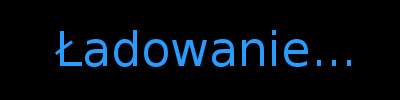
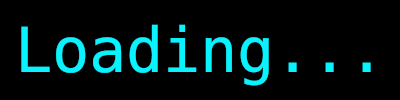
Loading screens now respect language settings

Changed region(s): [[0.03, 0.24, 0.84, 0.87], [0.87, 0.6, 0.93, 0.72], [0.45, 0.24, 0.48, 0.33]]

diff --git a/js/plugins.js b/js/plugins.js
@@ -28,5 +28,6 @@ var $plugins =
 {"name":"GALV_RollCredits","status":true,"description":"(v.1.5) A plugin that calls a new scene to display scrolling information located in an external text file.","parameters":{"Folder":"cdata","Skippable":"true","Block Skipping":"true","Title Menu":"Twórcy","Title Credits Music":""}},
 {"name":"WindowIdentifier","status":true,"description":"Shows the name of the windows while holding CTRL.","parameters":{"Font Size":"28","Font Color":"6"}},
 {"name":"----------------------------------------------","status":false,"description":"","parameters":{}},
-{"name":"KoTC Optimized Dynamic Music System","status":true,"description":"v1 Allows one to have a Dynamic Music System\r\nfor their game, allowing multiple songs per map.","parameters":{"Music List Config":"[\"{\\\"List Name\\\":\\\"Main\\\",\\\"Music Contained\\\":\\\"[\\\\\\\"{\\\\\\\\\\\\\\\"Music Name\\\\\\\\\\\\\\\":\\\\\\\\\\\\\\\"Cosmic-Puzzle\\\\\\\\\\\\\\\",\\\\\\\\\\\\\\\"Music Pitch\\\\\\\\\\\\\\\":\\\\\\\\\\\\\\\"100\\\\\\\\\\\\\\\",\\\\\\\\\\\\\\\"Music Volume\\\\\\\\\\\\\\\":\\\\\\\\\\\\\\\"100\\\\\\\\\\\\\\\",\\\\\\\\\\\\\\\"Fadeout Time\\\\\\\\\\\\\\\":\\\\\\\\\\\\\\\"5\\\\\\\\\\\\\\\",\\\\\\\\\\\\\\\"Music Loop Amount\\\\\\\\\\\\\\\":\\\\\\\\\\\\\\\"1\\\\\\\\\\\\\\\",\\\\\\\\\\\\\\\"Music Pitch Variance\\\\\\\\\\\\\\\":\\\\\\\\\\\\\\\"0\\\\\\\\\\\\\\\"}\\\\\\\",\\\\\\\"{\\\\\\\\\\\\\\\"Music Name\\\\\\\\\\\\\\\":\\\\\\\\\\\\\\\"Dreaming-in-Puzzles\\\\\\\\\\\\\\\",\\\\\\\\\\\\\\\"Music Pitch\\\\\\\\\\\\\\\":\\\\\\\\\\\\\\\"100\\\\\\\\\\\\\\\",\\\\\\\\\\\\\\\"Music Volume\\\\\\\\\\\\\\\":\\\\\\\\\\\\\\\"100\\\\\\\\\\\\\\\",\\\\\\\\\\\\\\\"Fadeout Time\\\\\\\\\\\\\\\":\\\\\\\\\\\\\\\"5\\\\\\\\\\\\\\\",\\\\\\\\\\\\\\\"Music Loop Amount\\\\\\\\\\\\\\\":\\\\\\\\\\\\\\\"0\\\\\\\\\\\\\\\",\\\\\\\\\\\\\\\"Music Pitch Variance\\\\\\\\\\\\\\\":\\\\\\\\\\\\\\\"0\\\\\\\\\\\\\\\"}\\\\\\\",\\\\\\\"{\\\\\\\\\\\\\\\"Music Name\\\\\\\\\\\\\\\":\\\\\\\\\\\\\\\"Numbers\\\\\\\\\\\\\\\",\\\\\\\\\\\\\\\"Music Pitch\\\\\\\\\\\\\\\":\\\\\\\\\\\\\\\"100\\\\\\\\\\\\\\\",\\\\\\\\\\\\\\\"Music Volume\\\\\\\\\\\\\\\":\\\\\\\\\\\\\\\"90\\\\\\\\\\\\\\\",\\\\\\\\\\\\\\\"Fadeout Time\\\\\\\\\\\\\\\":\\\\\\\\\\\\\\\"5\\\\\\\\\\\\\\\",\\\\\\\\\\\\\\\"Music Loop Amount\\\\\\\\\\\\\\\":\\\\\\\\\\\\\\\"0\\\\\\\\\\\\\\\",\\\\\\\\\\\\\\\"Music Pitch Variance\\\\\\\\\\\\\\\":\\\\\\\\\\\\\\\"0\\\\\\\\\\\\\\\"}\\\\\\\",\\\\\\\"{\\\\\\\\\\\\\\\"Music Name\\\\\\\\\\\\\\\":\\\\\\\\\\\\\\\"Puzzle-Game\\\\\\\\\\\\\\\",\\\\\\\\\\\\\\\"Music Pitch\\\\\\\\\\\\\\\":\\\\\\\\\\\\\\\"100\\\\\\\\\\\\\\\",\\\\\\\\\\\\\\\"Music Volume\\\\\\\\\\\\\\\":\\\\\\\\\\\\\\\"100\\\\\\\\\\\\\\\",\\\\\\\\\\\\\\\"Fadeout Time\\\\\\\\\\\\\\\":\\\\\\\\\\\\\\\"5\\\\\\\\\\\\\\\",\\\\\\\\\\\\\\\"Music Loop Amount\\\\\\\\\\\\\\\":\\\\\\\\\\\\\\\"0\\\\\\\\\\\\\\\",\\\\\\\\\\\\\\\"Music Pitch Variance\\\\\\\\\\\\\\\":\\\\\\\\\\\\\\\"0\\\\\\\\\\\\\\\"}\\\\\\\",\\\\\\\"{\\\\\\\\\\\\\\\"Music Name\\\\\\\\\\\\\\\":\\\\\\\\\\\\\\\"Puzzle-Game-2\\\\\\\\\\\\\\\",\\\\\\\\\\\\\\\"Music Pitch\\\\\\\\\\\\\\\":\\\\\\\\\\\\\\\"100\\\\\\\\\\\\\\\",\\\\\\\\\\\\\\\"Music Volume\\\\\\\\\\\\\\\":\\\\\\\\\\\\\\\"100\\\\\\\\\\\\\\\",\\\\\\\\\\\\\\\"Fadeout Time\\\\\\\\\\\\\\\":\\\\\\\\\\\\\\\"5\\\\\\\\\\\\\\\",\\\\\\\\\\\\\\\"Music Loop Amount\\\\\\\\\\\\\\\":\\\\\\\\\\\\\\\"0\\\\\\\\\\\\\\\",\\\\\\\\\\\\\\\"Music Pitch Variance\\\\\\\\\\\\\\\":\\\\\\\\\\\\\\\"0\\\\\\\\\\\\\\\"}\\\\\\\",\\\\\\\"{\\\\\\\\\\\\\\\"Music Name\\\\\\\\\\\\\\\":\\\\\\\\\\\\\\\"Puzzle-Game-3\\\\\\\\\\\\\\\",\\\\\\\\\\\\\\\"Music Pitch\\\\\\\\\\\\\\\":\\\\\\\\\\\\\\\"100\\\\\\\\\\\\\\\",\\\\\\\\\\\\\\\"Music Volume\\\\\\\\\\\\\\\":\\\\\\\\\\\\\\\"100\\\\\\\\\\\\\\\",\\\\\\\\\\\\\\\"Fadeout Time\\\\\\\\\\\\\\\":\\\\\\\\\\\\\\\"5\\\\\\\\\\\\\\\",\\\\\\\\\\\\\\\"Music Loop Amount\\\\\\\\\\\\\\\":\\\\\\\\\\\\\\\"0\\\\\\\\\\\\\\\",\\\\\\\\\\\\\\\"Music Pitch Variance\\\\\\\\\\\\\\\":\\\\\\\\\\\\\\\"0\\\\\\\\\\\\\\\"}\\\\\\\",\\\\\\\"{\\\\\\\\\\\\\\\"Music Name\\\\\\\\\\\\\\\":\\\\\\\\\\\\\\\"Puzzle-Game-5\\\\\\\\\\\\\\\",\\\\\\\\\\\\\\\"Music Pitch\\\\\\\\\\\\\\\":\\\\\\\\\\\\\\\"100\\\\\\\\\\\\\\\",\\\\\\\\\\\\\\\"Music Volume\\\\\\\\\\\\\\\":\\\\\\\\\\\\\\\"100\\\\\\\\\\\\\\\",\\\\\\\\\\\\\\\"Fadeout Time\\\\\\\\\\\\\\\":\\\\\\\\\\\\\\\"5\\\\\\\\\\\\\\\",\\\\\\\\\\\\\\\"Music Loop Amount\\\\\\\\\\\\\\\":\\\\\\\\\\\\\\\"1\\\\\\\\\\\\\\\",\\\\\\\\\\\\\\\"Music Pitch Variance\\\\\\\\\\\\\\\":\\\\\\\\\\\\\\\"0\\\\\\\\\\\\\\\"}\\\\\\\",\\\\\\\"{\\\\\\\\\\\\\\\"Music Name\\\\\\\\\\\\\\\":\\\\\\\\\\\\\\\"Puzzles-on-Alien-Worlds\\\\\\\\\\\\\\\",\\\\\\\\\\\\\\\"Music Pitch\\\\\\\\\\\\\\\":\\\\\\\\\\\\\\\"100\\\\\\\\\\\\\\\",\\\\\\\\\\\\\\\"Music Volume\\\\\\\\\\\\\\\":\\\\\\\\\\\\\\\"100\\\\\\\\\\\\\\\",\\\\\\\\\\\\\\\"Fadeout Time\\\\\\\\\\\\\\\":\\\\\\\\\\\\\\\"5\\\\\\\\\\\\\\\",\\\\\\\\\\\\\\\"Music Loop Amount\\\\\\\\\\\\\\\":\\\\\\\\\\\\\\\"1\\\\\\\\\\\\\\\",\\\\\\\\\\\\\\\"Music Pitch Variance\\\\\\\\\\\\\\\":\\\\\\\\\\\\\\\"0\\\\\\\\\\\\\\\"}\\\\\\\"]\\\"}\",\"{\\\"List Name\\\":\\\"Test\\\",\\\"Music Contained\\\":\\\"[\\\\\\\"{\\\\\\\\\\\\\\\"Music Name\\\\\\\\\\\\\\\":\\\\\\\\\\\\\\\"Musical1\\\\\\\\\\\\\\\",\\\\\\\\\\\\\\\"Music Pitch\\\\\\\\\\\\\\\":\\\\\\\\\\\\\\\"100\\\\\\\\\\\\\\\",\\\\\\\\\\\\\\\"Music Volume\\\\\\\\\\\\\\\":\\\\\\\\\\\\\\\"100\\\\\\\\\\\\\\\",\\\\\\\\\\\\\\\"Fadeout Time\\\\\\\\\\\\\\\":\\\\\\\\\\\\\\\"5\\\\\\\\\\\\\\\",\\\\\\\\\\\\\\\"Music Loop Amount\\\\\\\\\\\\\\\":\\\\\\\\\\\\\\\"0\\\\\\\\\\\\\\\",\\\\\\\\\\\\\\\"Music Pitch Variance\\\\\\\\\\\\\\\":\\\\\\\\\\\\\\\"0\\\\\\\\\\\\\\\"}\\\\\\\",\\\\\\\"{\\\\\\\\\\\\\\\"Music Name\\\\\\\\\\\\\\\":\\\\\\\\\\\\\\\"Musical2\\\\\\\\\\\\\\\",\\\\\\\\\\\\\\\"Music Pitch\\\\\\\\\\\\\\\":\\\\\\\\\\\\\\\"100\\\\\\\\\\\\\\\",\\\\\\\\\\\\\\\"Music Volume\\\\\\\\\\\\\\\":\\\\\\\\\\\\\\\"100\\\\\\\\\\\\\\\",\\\\\\\\\\\\\\\"Fadeout Time\\\\\\\\\\\\\\\":\\\\\\\\\\\\\\\"5\\\\\\\\\\\\\\\",\\\\\\\\\\\\\\\"Music Loop Amount\\\\\\\\\\\\\\\":\\\\\\\\\\\\\\\"0\\\\\\\\\\\\\\\",\\\\\\\\\\\\\\\"Music Pitch Variance\\\\\\\\\\\\\\\":\\\\\\\\\\\\\\\"0\\\\\\\\\\\\\\\"}\\\\\\\",\\\\\\\"{\\\\\\\\\\\\\\\"Music Name\\\\\\\\\\\\\\\":\\\\\\\\\\\\\\\"Musical3\\\\\\\\\\\\\\\",\\\\\\\\\\\\\\\"Music Pitch\\\\\\\\\\\\\\\":\\\\\\\\\\\\\\\"100\\\\\\\\\\\\\\\",\\\\\\\\\\\\\\\"Music Volume\\\\\\\\\\\\\\\":\\\\\\\\\\\\\\\"100\\\\\\\\\\\\\\\",\\\\\\\\\\\\\\\"Fadeout Time\\\\\\\\\\\\\\\":\\\\\\\\\\\\\\\"5\\\\\\\\\\\\\\\",\\\\\\\\\\\\\\\"Music Loop Amount\\\\\\\\\\\\\\\":\\\\\\\\\\\\\\\"0\\\\\\\\\\\\\\\",\\\\\\\\\\\\\\\"Music Pitch Variance\\\\\\\\\\\\\\\":\\\\\\\\\\\\\\\"0\\\\\\\\\\\\\\\"}\\\\\\\"]\\\"}\"]"}}
+{"name":"KoTC Optimized Dynamic Music System","status":true,"description":"v1 Allows one to have a Dynamic Music System\r\nfor their game, allowing multiple songs per map.","parameters":{"Music List Config":"[\"{\\\"List Name\\\":\\\"Main\\\",\\\"Music Contained\\\":\\\"[\\\\\\\"{\\\\\\\\\\\\\\\"Music Name\\\\\\\\\\\\\\\":\\\\\\\\\\\\\\\"Cosmic-Puzzle\\\\\\\\\\\\\\\",\\\\\\\\\\\\\\\"Music Pitch\\\\\\\\\\\\\\\":\\\\\\\\\\\\\\\"100\\\\\\\\\\\\\\\",\\\\\\\\\\\\\\\"Music Volume\\\\\\\\\\\\\\\":\\\\\\\\\\\\\\\"100\\\\\\\\\\\\\\\",\\\\\\\\\\\\\\\"Fadeout Time\\\\\\\\\\\\\\\":\\\\\\\\\\\\\\\"5\\\\\\\\\\\\\\\",\\\\\\\\\\\\\\\"Music Loop Amount\\\\\\\\\\\\\\\":\\\\\\\\\\\\\\\"1\\\\\\\\\\\\\\\",\\\\\\\\\\\\\\\"Music Pitch Variance\\\\\\\\\\\\\\\":\\\\\\\\\\\\\\\"0\\\\\\\\\\\\\\\"}\\\\\\\",\\\\\\\"{\\\\\\\\\\\\\\\"Music Name\\\\\\\\\\\\\\\":\\\\\\\\\\\\\\\"Dreaming-in-Puzzles\\\\\\\\\\\\\\\",\\\\\\\\\\\\\\\"Music Pitch\\\\\\\\\\\\\\\":\\\\\\\\\\\\\\\"100\\\\\\\\\\\\\\\",\\\\\\\\\\\\\\\"Music Volume\\\\\\\\\\\\\\\":\\\\\\\\\\\\\\\"100\\\\\\\\\\\\\\\",\\\\\\\\\\\\\\\"Fadeout Time\\\\\\\\\\\\\\\":\\\\\\\\\\\\\\\"5\\\\\\\\\\\\\\\",\\\\\\\\\\\\\\\"Music Loop Amount\\\\\\\\\\\\\\\":\\\\\\\\\\\\\\\"0\\\\\\\\\\\\\\\",\\\\\\\\\\\\\\\"Music Pitch Variance\\\\\\\\\\\\\\\":\\\\\\\\\\\\\\\"0\\\\\\\\\\\\\\\"}\\\\\\\",\\\\\\\"{\\\\\\\\\\\\\\\"Music Name\\\\\\\\\\\\\\\":\\\\\\\\\\\\\\\"Numbers\\\\\\\\\\\\\\\",\\\\\\\\\\\\\\\"Music Pitch\\\\\\\\\\\\\\\":\\\\\\\\\\\\\\\"100\\\\\\\\\\\\\\\",\\\\\\\\\\\\\\\"Music Volume\\\\\\\\\\\\\\\":\\\\\\\\\\\\\\\"90\\\\\\\\\\\\\\\",\\\\\\\\\\\\\\\"Fadeout Time\\\\\\\\\\\\\\\":\\\\\\\\\\\\\\\"5\\\\\\\\\\\\\\\",\\\\\\\\\\\\\\\"Music Loop Amount\\\\\\\\\\\\\\\":\\\\\\\\\\\\\\\"0\\\\\\\\\\\\\\\",\\\\\\\\\\\\\\\"Music Pitch Variance\\\\\\\\\\\\\\\":\\\\\\\\\\\\\\\"0\\\\\\\\\\\\\\\"}\\\\\\\",\\\\\\\"{\\\\\\\\\\\\\\\"Music Name\\\\\\\\\\\\\\\":\\\\\\\\\\\\\\\"Puzzle-Game\\\\\\\\\\\\\\\",\\\\\\\\\\\\\\\"Music Pitch\\\\\\\\\\\\\\\":\\\\\\\\\\\\\\\"100\\\\\\\\\\\\\\\",\\\\\\\\\\\\\\\"Music Volume\\\\\\\\\\\\\\\":\\\\\\\\\\\\\\\"100\\\\\\\\\\\\\\\",\\\\\\\\\\\\\\\"Fadeout Time\\\\\\\\\\\\\\\":\\\\\\\\\\\\\\\"5\\\\\\\\\\\\\\\",\\\\\\\\\\\\\\\"Music Loop Amount\\\\\\\\\\\\\\\":\\\\\\\\\\\\\\\"0\\\\\\\\\\\\\\\",\\\\\\\\\\\\\\\"Music Pitch Variance\\\\\\\\\\\\\\\":\\\\\\\\\\\\\\\"0\\\\\\\\\\\\\\\"}\\\\\\\",\\\\\\\"{\\\\\\\\\\\\\\\"Music Name\\\\\\\\\\\\\\\":\\\\\\\\\\\\\\\"Puzzle-Game-2\\\\\\\\\\\\\\\",\\\\\\\\\\\\\\\"Music Pitch\\\\\\\\\\\\\\\":\\\\\\\\\\\\\\\"100\\\\\\\\\\\\\\\",\\\\\\\\\\\\\\\"Music Volume\\\\\\\\\\\\\\\":\\\\\\\\\\\\\\\"100\\\\\\\\\\\\\\\",\\\\\\\\\\\\\\\"Fadeout Time\\\\\\\\\\\\\\\":\\\\\\\\\\\\\\\"5\\\\\\\\\\\\\\\",\\\\\\\\\\\\\\\"Music Loop Amount\\\\\\\\\\\\\\\":\\\\\\\\\\\\\\\"0\\\\\\\\\\\\\\\",\\\\\\\\\\\\\\\"Music Pitch Variance\\\\\\\\\\\\\\\":\\\\\\\\\\\\\\\"0\\\\\\\\\\\\\\\"}\\\\\\\",\\\\\\\"{\\\\\\\\\\\\\\\"Music Name\\\\\\\\\\\\\\\":\\\\\\\\\\\\\\\"Puzzle-Game-3\\\\\\\\\\\\\\\",\\\\\\\\\\\\\\\"Music Pitch\\\\\\\\\\\\\\\":\\\\\\\\\\\\\\\"100\\\\\\\\\\\\\\\",\\\\\\\\\\\\\\\"Music Volume\\\\\\\\\\\\\\\":\\\\\\\\\\\\\\\"100\\\\\\\\\\\\\\\",\\\\\\\\\\\\\\\"Fadeout Time\\\\\\\\\\\\\\\":\\\\\\\\\\\\\\\"5\\\\\\\\\\\\\\\",\\\\\\\\\\\\\\\"Music Loop Amount\\\\\\\\\\\\\\\":\\\\\\\\\\\\\\\"0\\\\\\\\\\\\\\\",\\\\\\\\\\\\\\\"Music Pitch Variance\\\\\\\\\\\\\\\":\\\\\\\\\\\\\\\"0\\\\\\\\\\\\\\\"}\\\\\\\",\\\\\\\"{\\\\\\\\\\\\\\\"Music Name\\\\\\\\\\\\\\\":\\\\\\\\\\\\\\\"Puzzle-Game-5\\\\\\\\\\\\\\\",\\\\\\\\\\\\\\\"Music Pitch\\\\\\\\\\\\\\\":\\\\\\\\\\\\\\\"100\\\\\\\\\\\\\\\",\\\\\\\\\\\\\\\"Music Volume\\\\\\\\\\\\\\\":\\\\\\\\\\\\\\\"100\\\\\\\\\\\\\\\",\\\\\\\\\\\\\\\"Fadeout Time\\\\\\\\\\\\\\\":\\\\\\\\\\\\\\\"5\\\\\\\\\\\\\\\",\\\\\\\\\\\\\\\"Music Loop Amount\\\\\\\\\\\\\\\":\\\\\\\\\\\\\\\"1\\\\\\\\\\\\\\\",\\\\\\\\\\\\\\\"Music Pitch Variance\\\\\\\\\\\\\\\":\\\\\\\\\\\\\\\"0\\\\\\\\\\\\\\\"}\\\\\\\",\\\\\\\"{\\\\\\\\\\\\\\\"Music Name\\\\\\\\\\\\\\\":\\\\\\\\\\\\\\\"Puzzles-on-Alien-Worlds\\\\\\\\\\\\\\\",\\\\\\\\\\\\\\\"Music Pitch\\\\\\\\\\\\\\\":\\\\\\\\\\\\\\\"100\\\\\\\\\\\\\\\",\\\\\\\\\\\\\\\"Music Volume\\\\\\\\\\\\\\\":\\\\\\\\\\\\\\\"100\\\\\\\\\\\\\\\",\\\\\\\\\\\\\\\"Fadeout Time\\\\\\\\\\\\\\\":\\\\\\\\\\\\\\\"5\\\\\\\\\\\\\\\",\\\\\\\\\\\\\\\"Music Loop Amount\\\\\\\\\\\\\\\":\\\\\\\\\\\\\\\"1\\\\\\\\\\\\\\\",\\\\\\\\\\\\\\\"Music Pitch Variance\\\\\\\\\\\\\\\":\\\\\\\\\\\\\\\"0\\\\\\\\\\\\\\\"}\\\\\\\"]\\\"}\",\"{\\\"List Name\\\":\\\"Test\\\",\\\"Music Contained\\\":\\\"[\\\\\\\"{\\\\\\\\\\\\\\\"Music Name\\\\\\\\\\\\\\\":\\\\\\\\\\\\\\\"Musical1\\\\\\\\\\\\\\\",\\\\\\\\\\\\\\\"Music Pitch\\\\\\\\\\\\\\\":\\\\\\\\\\\\\\\"100\\\\\\\\\\\\\\\",\\\\\\\\\\\\\\\"Music Volume\\\\\\\\\\\\\\\":\\\\\\\\\\\\\\\"100\\\\\\\\\\\\\\\",\\\\\\\\\\\\\\\"Fadeout Time\\\\\\\\\\\\\\\":\\\\\\\\\\\\\\\"5\\\\\\\\\\\\\\\",\\\\\\\\\\\\\\\"Music Loop Amount\\\\\\\\\\\\\\\":\\\\\\\\\\\\\\\"0\\\\\\\\\\\\\\\",\\\\\\\\\\\\\\\"Music Pitch Variance\\\\\\\\\\\\\\\":\\\\\\\\\\\\\\\"0\\\\\\\\\\\\\\\"}\\\\\\\",\\\\\\\"{\\\\\\\\\\\\\\\"Music Name\\\\\\\\\\\\\\\":\\\\\\\\\\\\\\\"Musical2\\\\\\\\\\\\\\\",\\\\\\\\\\\\\\\"Music Pitch\\\\\\\\\\\\\\\":\\\\\\\\\\\\\\\"100\\\\\\\\\\\\\\\",\\\\\\\\\\\\\\\"Music Volume\\\\\\\\\\\\\\\":\\\\\\\\\\\\\\\"100\\\\\\\\\\\\\\\",\\\\\\\\\\\\\\\"Fadeout Time\\\\\\\\\\\\\\\":\\\\\\\\\\\\\\\"5\\\\\\\\\\\\\\\",\\\\\\\\\\\\\\\"Music Loop Amount\\\\\\\\\\\\\\\":\\\\\\\\\\\\\\\"0\\\\\\\\\\\\\\\",\\\\\\\\\\\\\\\"Music Pitch Variance\\\\\\\\\\\\\\\":\\\\\\\\\\\\\\\"0\\\\\\\\\\\\\\\"}\\\\\\\",\\\\\\\"{\\\\\\\\\\\\\\\"Music Name\\\\\\\\\\\\\\\":\\\\\\\\\\\\\\\"Musical3\\\\\\\\\\\\\\\",\\\\\\\\\\\\\\\"Music Pitch\\\\\\\\\\\\\\\":\\\\\\\\\\\\\\\"100\\\\\\\\\\\\\\\",\\\\\\\\\\\\\\\"Music Volume\\\\\\\\\\\\\\\":\\\\\\\\\\\\\\\"100\\\\\\\\\\\\\\\",\\\\\\\\\\\\\\\"Fadeout Time\\\\\\\\\\\\\\\":\\\\\\\\\\\\\\\"5\\\\\\\\\\\\\\\",\\\\\\\\\\\\\\\"Music Loop Amount\\\\\\\\\\\\\\\":\\\\\\\\\\\\\\\"0\\\\\\\\\\\\\\\",\\\\\\\\\\\\\\\"Music Pitch Variance\\\\\\\\\\\\\\\":\\\\\\\\\\\\\\\"0\\\\\\\\\\\\\\\"}\\\\\\\"]\\\"}\"]"}},
+{"name":"MAC_Extended_Loading_Screens","status":false,"description":"This plugin will make loading screens last longer, so that you can take a good look at them.","parameters":{"Time":"5"}}
 ];

diff --git a/js/plugins/TranslationData.js b/js/plugins/TranslationData.js
@@ -25,6 +25,7 @@ langData = {
 wordBank = {
     en: {
         terms: { "basic": ["Level", "Lv", "HP", "HP", "MP", "MP", "TP", "TP", "EXP", "EXP"], "commands": ["Fight", "Escape", "Attack", "Guard", "Item", "Skill", "Equip", "Status", "Formation", "Save", "Game End", "Options", "Weapon", "Armor", "Key Item", "Equip", "Optimize", "Clear", "New Game", "Continue", null, "To Title", "Cancel", null, "Buy", "Sell"], "params": ["Max HP", "Max MP", "Attack", "Defense", "M.Attack", "M.Defense", "Agility", "Luck", "Hit", "Evasion"], "messages": { "actionFailure": "There was no effect on %1!", "actorDamage": "%1 took %2 damage!", "actorDrain": "%1 was drained of %2 %3!", "actorGain": "%1 gained %2 %3!", "actorLoss": "%1 lost %2 %3!", "actorNoDamage": "%1 took no damage!", "actorNoHit": "Miss! %1 took no damage!", "actorRecovery": "%1 recovered %2 %3!", "alwaysDash": "Always Dash", "bgmVolume": "Music volume", "bgsVolume": "Ambience volume", "buffAdd": "%1's %2 went up!", "buffRemove": "%1's %2 returned to normal!", "commandRemember": "Command Remember", "counterAttack": "%1 counterattacked!", "criticalToActor": "A painful blow!!", "criticalToEnemy": "An excellent hit!!", "debuffAdd": "%1's %2 went down!", "defeat": "%1 was defeated.", "emerge": "%1 emerged!", "enemyDamage": "%1 took %2 damage!", "enemyDrain": "%1 was drained of %2 %3!", "enemyGain": "%1 gained %2 %3!", "enemyLoss": "%1 lost %2 %3!", "enemyNoDamage": "%1 took no damage!", "enemyNoHit": "Miss! %1 took no damage!", "enemyRecovery": "%1 recovered %2 %3!", "escapeFailure": "However, it was unable to escape!", "escapeStart": "%1 has started to escape!", "evasion": "%1 evaded the attack!", "expNext": "To Next %1", "expTotal": "Current %1", "file": "File", "levelUp": "%1 is now %2 %3!", "loadMessage": "Load which file?", "magicEvasion": "%1 nullified the magic!", "magicReflection": "%1 reflected the magic!", "meVolume": "Fanfare Volume", "obtainExp": "%1 %2 received!", "obtainGold": "%1\\G found!", "obtainItem": "%1 found!", "obtainSkill": "%1 learned!", "partyName": "%1's Party", "possession": "Possession", "preemptive": "%1 got the upper hand!", "saveMessage": "Save to which file?", "seVolume": "Effects volume", "substitute": "%1 protected %2!", "surprise": "%1 was surprised!", "useItem": "%1 uses %2!", "victory": "%1 was victorious!" } },
+        loadingFile: "Loading",
         yes: "yes",
         no: "no",
         on: "ON",
@@ -53,6 +54,7 @@ wordBank = {
     },
     pl: {
         terms: { "basic": ["Level", "Lv", "HP", "HP", "MP", "MP", "TP", "TP", "EXP", "EXP"], "commands": ["Fight", "Escape", "Attack", "Guard", "Item", "Skill", "Equip", "Status", "Formation", "Zapisz", "Wyjdź", "Opcje", "Weapon", "Armor", "Key Item", "Equip", "Optimize", "Clear", "Nowa gra", "Kontynuacja", null, "Do menu głównego", "Anuluj", null, "Buy", "Sell"], "params": ["Max HP", "Max MP", "Attack", "Defense", "M.Attack", "M.Defense", "Agility", "Luck", "Hit", "Evasion"], "messages": { "actionFailure": "There was no effect on %1!", "actorDamage": "%1 took %2 damage!", "actorDrain": "%1 was drained of %2 %3!", "actorGain": "%1 gained %2 %3!", "actorLoss": "%1 lost %2 %3!", "actorNoDamage": "%1 took no damage!", "actorNoHit": "Miss! %1 took no damage!", "actorRecovery": "%1 recovered %2 %3!", "alwaysDash": "Biegnij domyślnie", "bgmVolume": "Głośność muzyki", "bgsVolume": "Głośność dźwięków tła", "buffAdd": "%1's %2 went up!", "buffRemove": "%1's %2 returned to normal!", "commandRemember": "Don't mind this", "counterAttack": "%1 counterattacked!", "criticalToActor": "A painful blow!!", "criticalToEnemy": "An excellent hit!!", "debuffAdd": "%1's %2 went down!", "defeat": "%1 was defeated.", "emerge": "%1 emerged!", "enemyDamage": "%1 took %2 damage!", "enemyDrain": "%1 was drained of %2 %3!", "enemyGain": "%1 gained %2 %3!", "enemyLoss": "%1 lost %2 %3!", "enemyNoDamage": "%1 took no damage!", "enemyNoHit": "Miss! %1 took no damage!", "enemyRecovery": "%1 recovered %2 %3!", "escapeFailure": "However, it was unable to escape!", "escapeStart": "%1 has started to escape!", "evasion": "%1 evaded the attack!", "expNext": "To Next %1", "expTotal": "Current %1", "file": "Plik", "levelUp": "%1 is now %2 %3!", "loadMessage": "Który plik wczytać?", "magicEvasion": "%1 nullified the magic!", "magicReflection": "%1 reflected the magic!", "meVolume": "Głośność efektów muzycznych", "obtainExp": "%1 %2 received!", "obtainGold": "znaleziono %1\\G!", "obtainItem": "znaleziono %1!", "obtainSkill": "%1 learned!", "partyName": "%1's Party", "possession": "Possession", "preemptive": "%1 got the upper hand!", "saveMessage": "Do którego pliku zapisać?", "seVolume": "Głośność efektów", "substitute": "%1 protected %2!", "surprise": "%1 was surprised!", "useItem": "%1 uses %2!", "victory": "%1 was victorious!" } },
+        loadingFile: "LoadingPl",
         yes: "tak",
         no: "nie",
         on: "TAK",

diff --git a/js/plugins/MAC_Extended_Loading_Screens.js b/js/plugins/MAC_Extended_Loading_Screens.js
@@ -1,0 +1,59 @@
+//=============================================================================
+// MAC_Extended_Loading_Screens.js
+//=============================================================================
+
+/*:
+ * @plugindesc This plugin will make loading screens last longer, so that you can take a good look at them.
+ * @author Mac15001900
+ *
+ * @help This plugin will make every loading screen last longer by a specified amount of time.
+ * This is intended to help you with customising your loading screen, in case you're not
+ * able to get a good look at it otherwise.
+ * 
+ * Simply set the 'Time' parameter to however long you'd like your loading screens to last.
+ * Or set it to -1 to make them last forever.
+ * 
+ * Just remember to disable this plugin when you go back to working on something else!
+ * 
+ * This plugin is available under the MIT Licence. 
+ * 
+ * @param Time
+ * @desc The extra time, in seconds, that every loading screen will last. -1 will make them last forever.
+ * @default 5
+ * 
+ */
+
+var Imported = Imported || {}
+Imported['MAC_Extended_Loading_Screens'] = '1.0.0';
+
+(function () {
+
+    let params = PluginManager.parameters('MAC_Extended_Loading_Screens');
+    let delay = Number(params['Time']) * 1000;
+    if (delay < 0) delay = Infinity;
+    console.log(delay);
+
+    if (delay !== 0) { //The user might set the delay to 0 when they want to disable the plugin - in that case we won't be overwriting anything
+        SceneManager.updateScene = function () {
+            if (this._scene) {
+                if (!this._sceneStarted && this._scene.isReady()) {
+                    if (!this.waitUntil) {
+                        this.waitUntil = Date.now() + delay;
+                        return;
+                    }
+                    if (Date.now() < this.waitUntil) {
+                        return;
+                    }
+                    this.waitUntil = null;
+                    this._scene.start();
+                    this._sceneStarted = true;
+                    this.onSceneStart();
+                }
+                if (this.isCurrentSceneStarted()) {
+                    this._scene.update();
+                }
+            }
+        };
+    }
+
+})();

diff --git a/js/plugins/MacThings.js b/js/plugins/MacThings.js
@@ -672,6 +672,8 @@ g.setLanguage = function (lang) {
         }
         $gs[langData.switches[lang]] = true
     }
+    console.log(s.loadingFile);
+    Graphics.setLoadingImage(`img/system/${s.loadingFile}.png`);
 }
 
 Object.defineProperty(ConfigManager, 'lang', {
